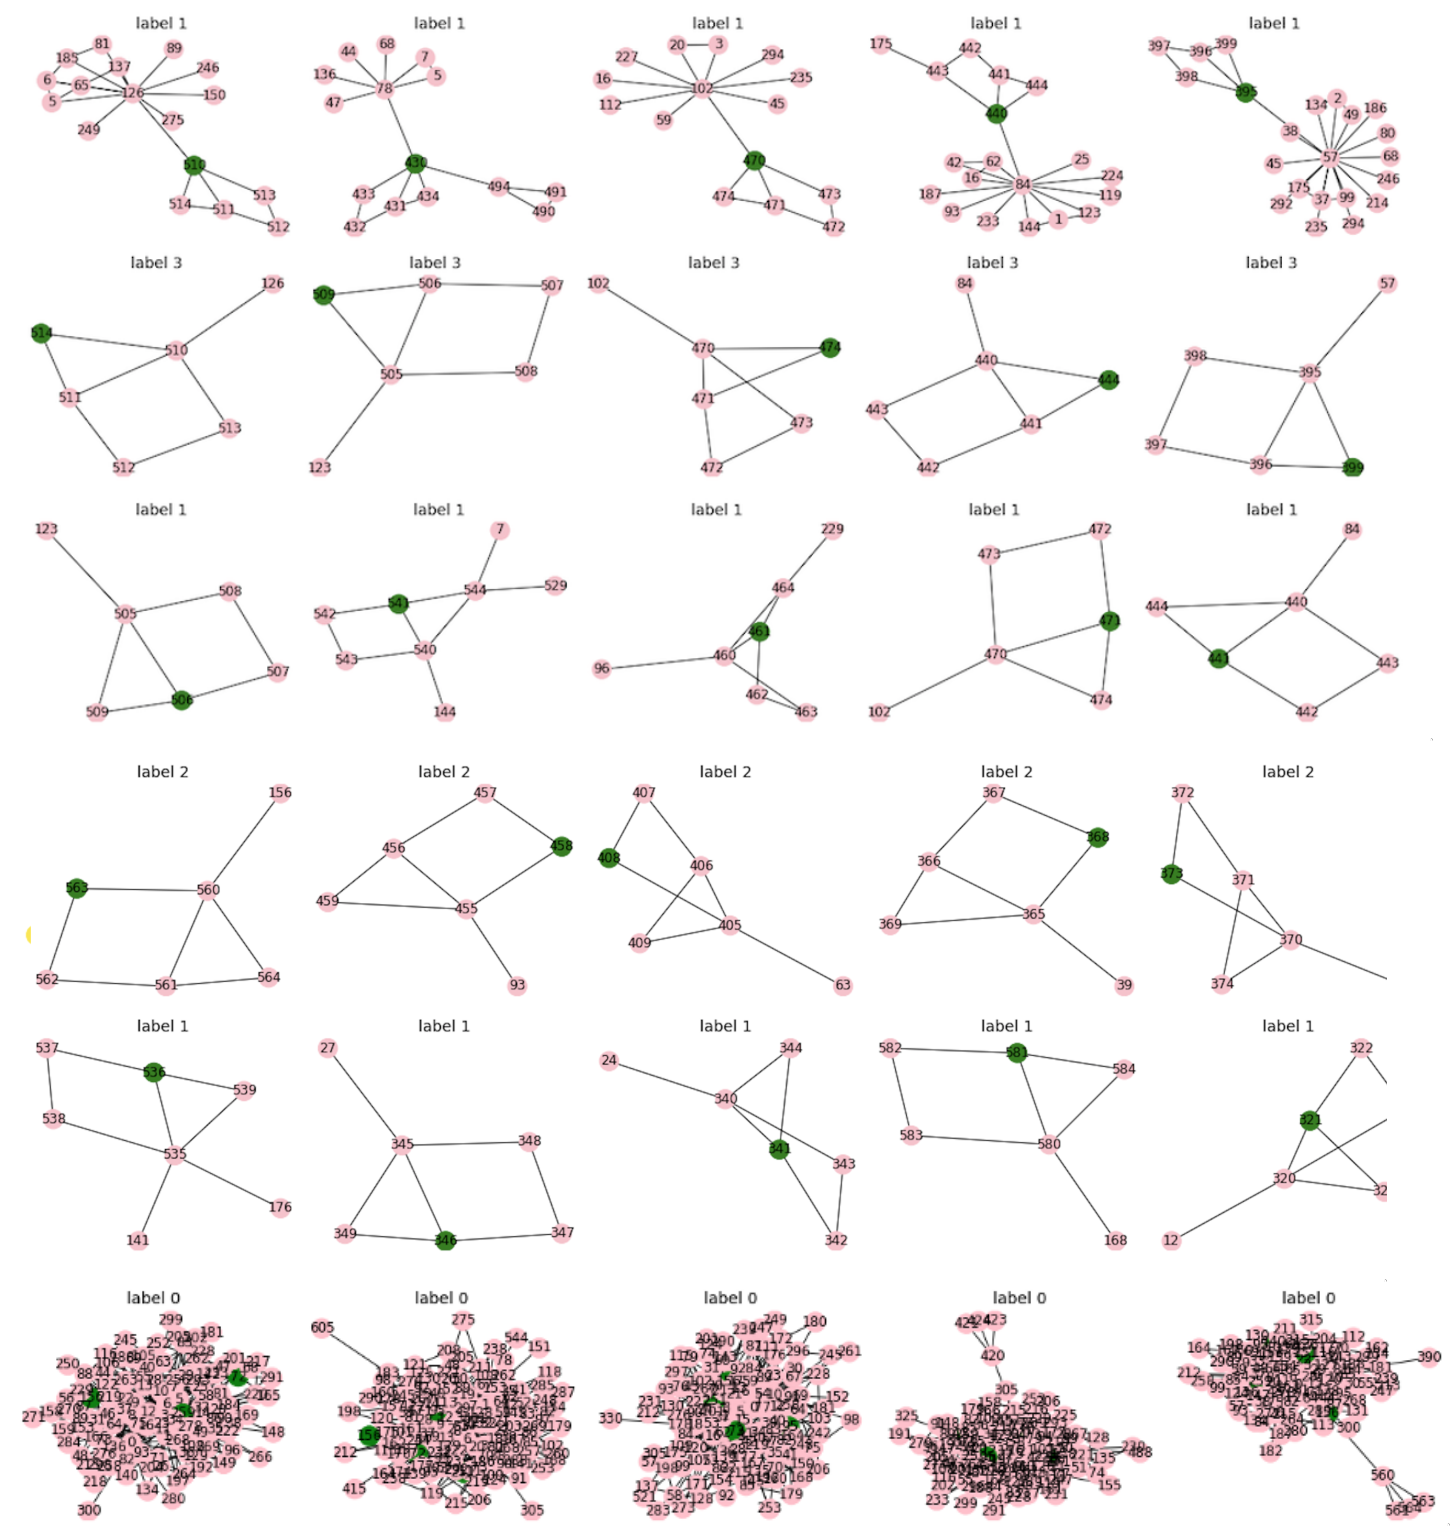
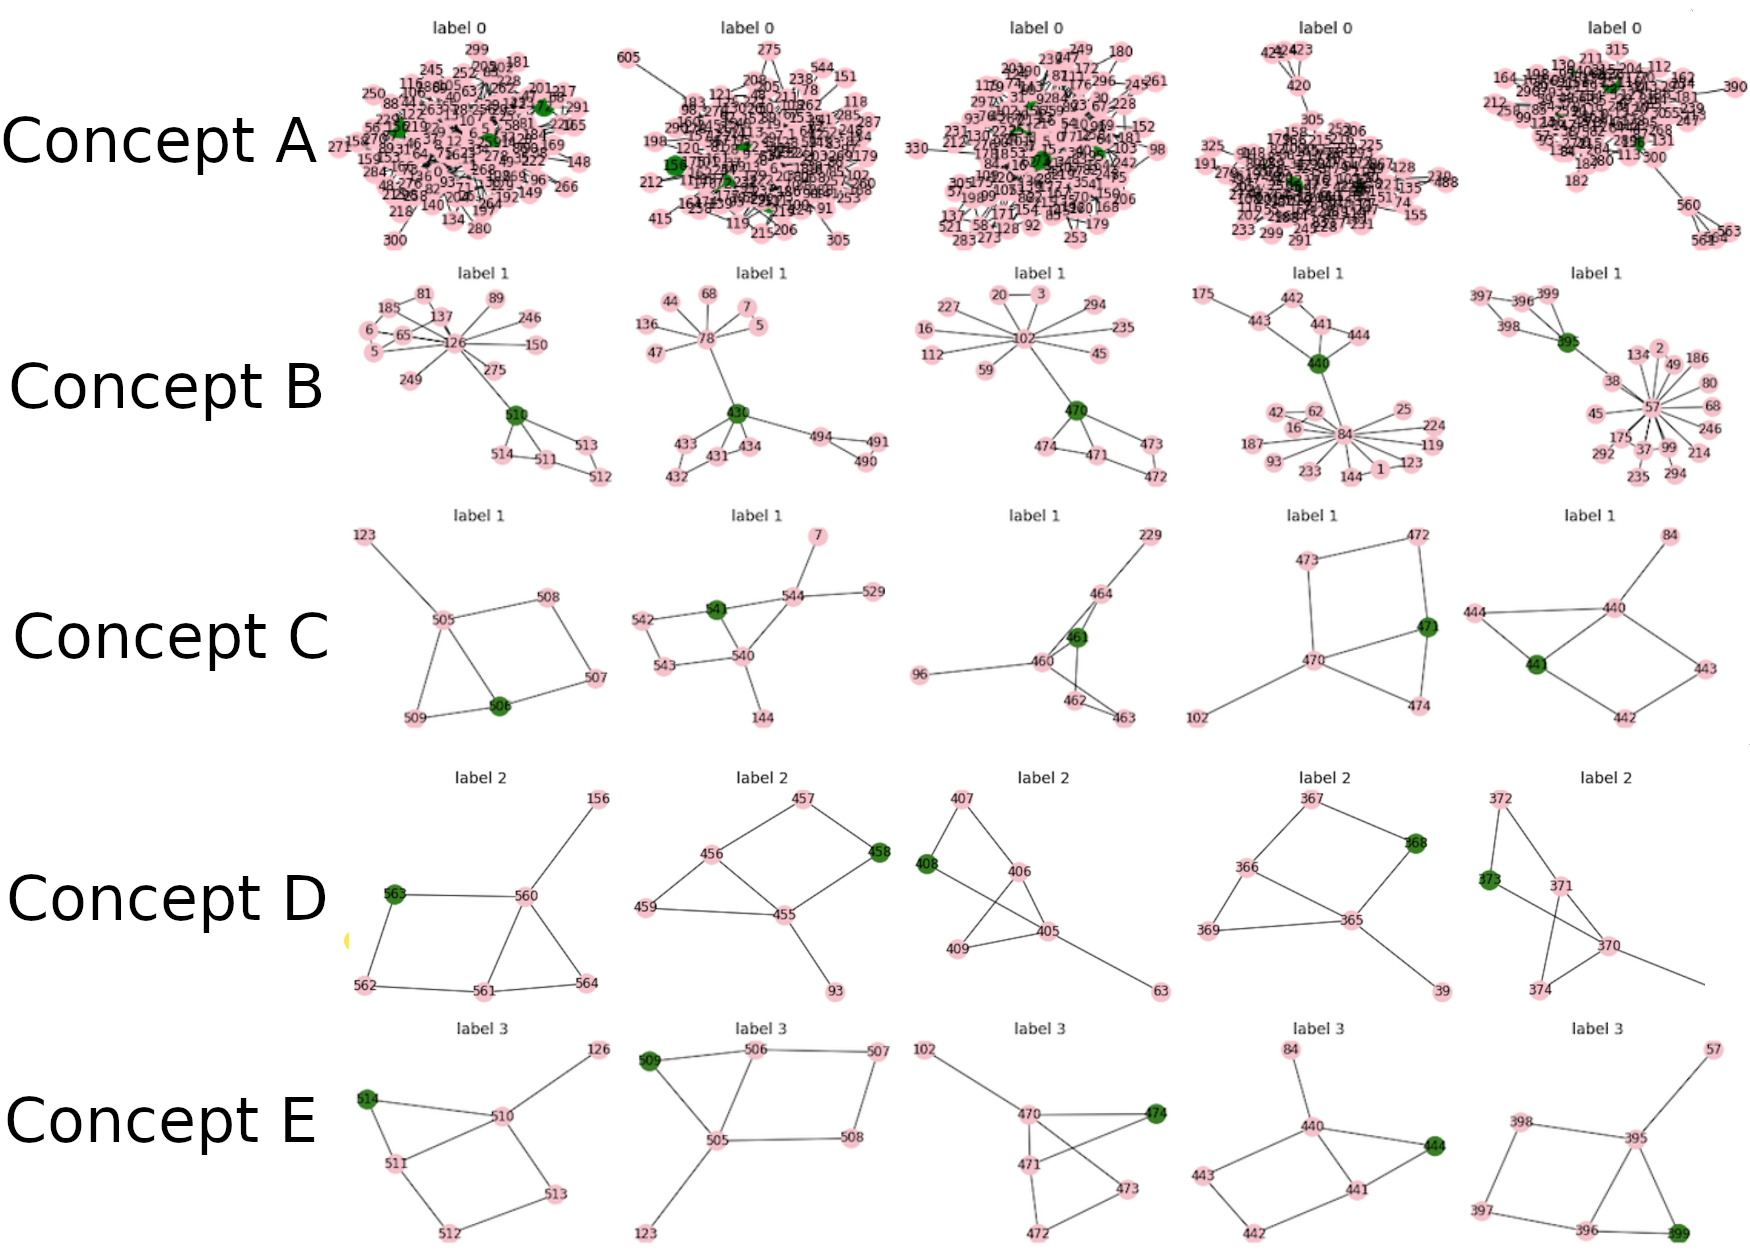
SGC concept analysis

diff --git a/diss/chapters/evaluation.tex b/diss/chapters/evaluation.tex
@@ -195,16 +195,16 @@ However, the 13 node cut-off and non-deterministic nature of k-Means\note{citati
 
 Figure \ref{fig:GCN-BA-Shapes} presents a subset of the BA Shapes concepts reproduced by the best performing GCN model.
 For comparison figure \ref{fig:Magister-BA-Shapes} presents those published in \textit{Magister et al.}
-Label 0 is included in both figures to demonstrate that the model does identify the base graph, in this case Barabasi-Albert, but as can be seen this provides little insight into how the model reasons.
+Concept 1 and A are included to demonstrate that the model does identify the base graph, in this case Barabasi-Albert, but as can be seen this provides little insight into how the model reasons.
 The remaining concepts demonstrate the 3 other labels associated with the house motif, as discussed in \Sref{sec:synth}.
-
 
 As can be seen all the published concepts have an equivalent concept in the reproduced concepts.
 The same analysis can be made that the edge attaching the house motif to the base graph is important to the classification of the nodes.
-There is also the same distinction in label 1 between a node on the ``inside'' and the ``outside'' where the ``inside'' node has an additional edge attached to the base graph.
-This distinction is present in label 2 as well, given that all the nodes present in both the published and reproduced concepts focus on the ``inside'' node.
+There is also the same distinction between concepts 2 and 3 as concepts B and C representing ``inside'' and the ``outside'' nodes respectively.
+Notice that in both concept 2 and B the  ``inside'' node clearly attaches to the Barabasi-Albert base graph.
+This distinction is also present in concept 4 and D, with both the published and reproduced concepts focusing on the ``inside'' bottom node.
 
-In both cases, and as expected given the concept purity scores, the concepts related to the motifs are almost completely pure with the exception of label 1 ``inside'' node.
+In both cases, and as expected given the concept purity scores, the concepts related to the motifs are almost completely pure with the exception of concept 1 and B.
 Additionally, all the nodes in the house motif have a unique concept where applicable and this leads to the high completeness score.
 
 Given the visual similarity in concepts between the published and reproduced results I consider the implementation of GCN to be accurate.
@@ -233,16 +233,115 @@ In the cases of the Tree datasets this can be attributed to the sparsity of the 
 Especially in the case of Tree Cycles where the Cycle structure and BST structure share similar sparse connections.
 
 Comparatively the dense BA graph allows for a better distinction between the motifs and the base graph.
-This distinction based on degree is attributed to the degree normalisation demonstrated in equation\ref{eq:GCN-as-GNN}.
+This distinction based on degree is attributed to the degree normalisation demonstrated in equation \ref{eq:GCN-as-GNN}.
 This advantage is not present in BA Community because of the increase in classes, the need to distinguish the two communities and the possibility of a motif having multiple connections to different base graphs.
 
 These poor results are not due to poor hyperparameter selection as is demonstrated in Appendix \note{reference when complete} and discussed in \Sref{sec:hyperparameters}.
 Instead the explanation for the poor performance is due to the lack of proper graph structure inference in SGC.
 This is lack of graph structure inference is not in comparison to GCN but rather a fundamental property of SGC.
 
-\section{Comparison of Concepts}
+\paragraph{Comparison of parameters}
+Given that SGC uses a single linear regressor compared to GCNs multiple layers there is a large discrepancy in number of parameters.
+SGC has ~40 parameters compared to GCN with 1000+ for BA Shapes which is very significant difference.
+However, increasing the parameters for SGC by increasing the node feature size and adding a \emph{multi-layer perceptron}(MLP) with the same hidden layers as the GCN model result in no substantial change to accuracy.
+
+No MLP model is added before the SGC pre-computation step as this defeats the point of SGC to be linear.\footnote{The use of an MLP classifier also introduces non-linearity though in this case the model does not improve. Non-linearity and parameters on there own are not sufficient.}
+This is the main drawback of SGC as it cannot manipulate the node representations beyond simple message passing/filter application.
+\Sref{sec:comp-concept} explores these claims further demonstrating the importance of trainable parameters during message and non-linearity.
+
+\section{Comparison of concepts}
 \label{sec:comp-concept}
-\input{tables/SGC-concepts}
+
+To achieve the \ref{crit1}$^{st}$ and \ref{crit3}$^{rd}$ success criterion concepts need to be extracted from SGC and compared to GCN concepts.
+However, as stated before, concept extraction and analysis is only suggested for models that achieved $95$\% or higher on synthetic datasets by \textit{Ying et al.}\cite{ying2019gnnexplainer}.
+As demonstrated in \Sref{sec:comp-acc} SGC does not reach this value only reaching $72.4$\% in the best case.
+
+However, though the concepts will not be meaningful to explain how SGC reasons they will still provide insight into the claims in \Sref{sec:comp-acc}.
+Furthermore, the concepts highlight the shortcomings of SGC when it comes to graph structure inference.
+For this reason the analysis of the concept scores is limited but the qualitative concept analysis provides insight into where SGC fails.
+
+\paragraph{Success criterion}
+\error{Fill in once section finished.}
+
+\subsection{Quantitative analysis}
+\paragraph{Completeness}
+\input{tables/SGC-completeness}
+
+Table \ref{tab:SGC-completeness} demonstrates the completeness scores achieved by SGC compared to GCN and as expected, by the low accuracy achieved by SGC in \Sref{sec:comp-acc}, they are consistently lower than the equivalent GCN models.
+However, given the accuracies of SGC appears closs to random, the resulting completeness scores aresurprisingly close to the GCN scores except in the case of BA Community.
+
+The high completenes scores are due to the fact that completeness relates to importance of concepts and not the performance of the model.
+The relatively high completeness scores for SGC signify that the concepts that SGC produces have some relevance to the class of a node.
+However, as demonstrated by table \ref{tab:SGC-completeness}, this relevance is not as strong as that in GCN.
+
+\paragraph{Purity}
+\input{tables/SGC-purity}
+
+Table \ref{tab:SGC-purity} demonstrates the purity scores achieved by the best performing SGC model compared to GCN.
+As discussed in \Sref{sec:GCN-reproduction} the values for purity are likely to be very erratic and not well suited for direct comparison.
+Given this erratic behaviour the values for purity between the two approaches are somewhat correlated with SGC achieving fairly pure concepts.
+As demonstrated SGC can identify pure concepts as is the case of BA Grid, which matches GCN in completely pure concepts.\footnote{For subgraphs the contain less than 13 nodes.}
+
+However, the inclusion of the number of concepts considered when calculating purity demonstrates the limitation of this method of comparison.
+Due to the base graphs a number of concepts contain more than 13 nodes and therefore are not considered.
+Thus the pure concepts of BA Grid are not representative of all the concepts extracted.
+
+Overall, this demonstrates that though SGC does not perform as well as GCN it produces concepts that are as coherent as GCN produces.
+
+\subsection{Qualitative analysis}
+\label{sec:concept-analysis}
+
+\paragraph{BA Shapes}
+\fig{SGC-BA-Shapes}{A subset of concepts extracted from the best performing SGC model. The subset includes both pure and impure concepts. The same colour scheme as fig. \ref{fig:GCN-BA-Shapes} is used.}
+
+Figure \ref{fig:SGC-BA-Shapes} visualises a subset of the concepts extracted for SGC on BA Shapes.
+Concepts 1 to 4 demonstrate the purer concepts extracted for SGC with concepts 5 to 7 representing the more common impure concepts extracted.
+Concept 5 demonstrates a shortcoming of the approach to calculating purity as this is considered a ``pure'' concept as the Barabasi-Albert graphs are not considered when calculating the score. 
+As with GCN, concept 1 demonstrates that SGC is able to identify the base graph consistently but as stated in \Sref{sec:GCN-reproduction} this provides little insight into the behaviour of SGC.
+
+Concepts 2, 3 and 4 demonstrate that SGC can identify pure concepts with important graph structure components.
+These concepts can be directly compared to concepts 3, 2 and 4 in figure \ref{fig:GCN-BA-Shapes} respectively.
+As with GCN the attaching arm is important to the classification of the nodes and there is some distinction in concept 2 and 3 between ``inside'' and ``outside'' middle nodes.
+However, as can be seen in concept 2, this distinction is not as strong as GCN.
+
+Concepts 5, 6 and 7 demonstrate the common impure concepts that are extracted from SGC.
+This is the major shortcoming of SGC even with the large differences in degree if cannot consistently distinguish between the base graph and the motif.
+Given that the nodes of interest in house motif are all consistent across these concepts suggests that there is an element of structure being identified.
+The problem is that SGC is unable to discern between structures that produce similar node representations.
+
+This observation suggests that the main shortcoming of SGC is the lack of learnable influence on node representations.
+In comparison GCN allows for manipulation of the node representations as demonstrated by $\bm{\Theta}^{(l)}$ in equation \ref{eq:GCN1}.
+Though equation \ref{eq:theta} suggests this manipulation should be preserved the reality is that only the final filter output is manipulated.
+This observation leads to the extension presented in \Sref{sec:Jump-SGC} allowing SGC to access individual filter applications.
+
+\paragraph{BA Community}
+\begin{figure}
+    \centering
+    \includegraphics[width=0.75\textwidth]{figures/SGC-BA-Community}
+    \includegraphics[width=0.75\textwidth]{figures/GCN-BA-Community}
+    \caption{Comparison of SGC and GCN concepts for BA Community demonstrating the poor graph structural inference of SGC. The numbered concepts are a subset of SGC concepts and the lettered concepts are GCN concepts. The colour scheme is the same as fig. \ref{fig:GCN-BA-Shapes}.}
+    \label{fig:BA-Community}
+\end{figure}
+
+Figure \ref{fig:BA-Community} highlights the inability of SGC to accurately discern graph structure where GCN demonstrate accurate graph structure discernment.
+Concepts 1, 2 and 3 demonstrate the purer concepts for SGC trained on BA Community and Concepts A to E represent the equivalent concepts for GCN on BA Community.
+
+As discussed SGC may be able to identify graph structure, as shown in concepts 1 and 2, however concept 1 highlights the fact that SGC cannot determine which part of the graph structure a node is.
+Comparatively concepts A, B and C show a similar situation except consistent labels across the concept.
+
+Furthermore, concept 2 includes a Barabasi-Albert subgraph, this is likely due to the similarity in node features for the second community\footnote{labels 4, 5, 6 and 7.} resulting in SGC treating them as the same.
+In comparison GCN can distinguish between different communities as shown by concepts A and B which represent the same node in the house motif but different communities.
+And GCN is able to discern between members in the same community demonstrated by concepts B and C.
+
+This erroneous behaviour is not standard as concept 3 highlights how the Barabasi-Albert subgraphs from separate communities are grouped together.
+GCN does treat the two communities different regardless of structural similarity which is clear in concepts D and E.
+
+Overall SGC is able to infer basic graph structure or group nodes into communities but is unable to achieve fine-grained inference.
+Though particularly apparent in BA Community these behaviours of SGC are likely to effect the performance on other datasets.
+
+\subsection{Summary}
+The low accuracy of SGC means that the data present in tables \ref{tab:SGC-completeness} and \ref{tab:SGC-purity} does not carry much meaning.
+However, table \ref{tab:SGC-completeness} does suggest that SGC does not produce useful concepts even though table \ref{tab:SGC-purity} suggests that these concepts are coherent.
 
 \section{Extensions}
 
@@ -251,4 +350,5 @@ This is lack of graph structure inference is not in comparison to GCN but rather
 \subsection{SGC and GCN Mixed Model}
 
 \subsection{JumpNet style SGC}
+\label{sec:Jump-SGC}
 

diff --git a/src/models/sgc.py b/src/models/sgc.py
@@ -26,6 +26,37 @@ class SGC(torch.nn.Module):
                 f'{self.out_channels})')
 
 
+class SGCPlus(torch.nn.Module):
+    def __init__(self,
+                 num_features: int,
+                 num_classes: int) -> None:
+        super().__init__()
+
+        self.lin1 = torch.nn.Linear(num_features, 20)
+        self.lin2 = torch.nn.Linear(20, 20)
+        self.lin3 = torch.nn.Linear(20, 20)
+        self.classifier = torch.nn.Linear(20, num_classes)
+
+        self.reset_parameters()
+
+    def reset_parameters(self):
+        self.lin1.reset_parameters()
+        self.lin2.reset_parameters()
+        self.lin3.reset_parameters()
+        self.classifier.reset_parameters()
+
+    def forward(self, x: Tensor) -> Tensor:
+        out: Tensor = self.lin1(x)
+        out = F.relu(out)
+        out = self.lin2(out)
+        out = F.relu(out)
+        out = self.lin3(out)
+        out = F.relu(out)
+        out = self.classifier(out)
+
+        return F.softmax(out)
+
+
 class PoolSGC(SGC):
     def __init__(self,
                  num_features: int,

diff --git a/diss/tables/SGC-purity.tex b/diss/tables/SGC-purity.tex
@@ -1,0 +1,17 @@
+\begin{table}
+    \centering
+    \begin{tabular}{c|ccc|c}
+        \multirow{2}{*}{\textbf{Dataset}} &
+        \multicolumn{3}{c}{\textbf{SGC}} & \\
+        & \textbf{Max.} & \textbf{Min.} & \textbf{Mean} & \multirow{-2}{*}{\textbf{GCN}}\\
+        \midrule
+        BA Shapes       & 0.0 & 4.0 & 0.8 (5) & 0.000 (4) \\
+        BA Grid         & 0.0 & 0.0 & 0.0 (2) & 0.000 (2) \\
+        BA Community    & 0.0 & 6.0 & 4.0 (4) & 5.600 (3) \\
+        Tree Cycles     & 0.0 & 6.0 & 1.0 (6) & 4.391 (9) \\
+        Tree Grid       & 0.0 & 7.0 & 3.3 (10) & 1.417 (6) \\
+    \end{tabular}
+    \caption{Concept purity of SGC on each of the synthetic datasets using the hyperparameters in table \ref{tab:SGC-params} compared to the average purity achieved by the equivalent GCN model. The brackets represent the number of concepts considered for purity, as per \Sref{sec:evaluation} these are graphs with less than 13.}
+    \label{tab:SGC-purity}
+\end{table}
+

diff --git a/diss/chapters/preparation.tex b/diss/chapters/preparation.tex
@@ -430,8 +430,8 @@ The GED is calculated using the following equation
     \label{eq:GED}
     \operatorname{GED}(\sG_1, \sG_2) = \underset{e_i,...,e_k \in \gamma(\sG_1, \sG_2)}{\operatorname{min}} \sum_{i=1}^{k}c(e_i)
 \end{equation}
-where $\gamma(\sG_1, \sG_2)$ is the set of edits to transform $\sG_1$ into $\sG_2$ and $c$ is the cost of carrying out an edit operation $e_i$.
-Note that this process NP-Hard and so in most cases an exact purity score is not provided.
+where $\gamma(\sG_1, \sG_2)$ is the set of edits to transform $\sG_1$ into $\sG_2$ and $c$ is the cost of carrying out an edit operation $e_i$.\footnote{This process NP-Hard and so in most cases an exact purity score is infeasible to compute.}
+By this metric a high purity score is represented by a lower number with 0 being completely pure.
 
 \paragraph{Concept completeness}
 relates to the importance of the concept determining whether the correct output can be predicted from the concepts alone.

diff --git a/diss/tables/SGC-completeness.tex b/diss/tables/SGC-completeness.tex
@@ -1,0 +1,17 @@
+\begin{table}
+    \centering
+    \begin{tabular}{c|c|c}
+        \textbf{Dataset} &
+        \textbf{SGC} &
+        \textbf{GCN} \\
+        \midrule
+        BA Shapes       & 0.882 & 0.964 \\
+        BA Grid         & 0.843 & 1.000 \\
+        BA Community    & 0.264 & 0.678 \\
+        Tree Cycles     & 0.874 & 0.949 \\
+        Tree Grid       & 0.890 & 0.965 \\
+    \end{tabular}
+    \caption{Concept completeness scores of SGC on each of the synthetic datasets using the hyperparameters in table \ref{tab:SGC-params} compared to the completeness scores of the equivalent GCN models.}
+    \label{tab:SGC-completeness}
+\end{table}
+

diff --git a/src/models/__init__.py b/src/models/__init__.py
@@ -1,5 +1,5 @@
 from .gcn import GCN
-from .sgc import SGC, JumpSGC, PoolSGC
+from .sgc import SGC, JumpSGC, PoolSGC, SGCPlus
 from .layers import Pool
 
 import pickle
@@ -63,6 +63,8 @@ def get_model(name: str,
         return PoolSGC(num_features, num_classes)
     elif name == "jsgc":
         return JumpSGC(num_features, num_classes, **config)
+    elif name == "sgc+":
+        return SGCPlus(num_features, num_classes)
     else:
         raise ValueError(f'Unsupported model {name}')
 
